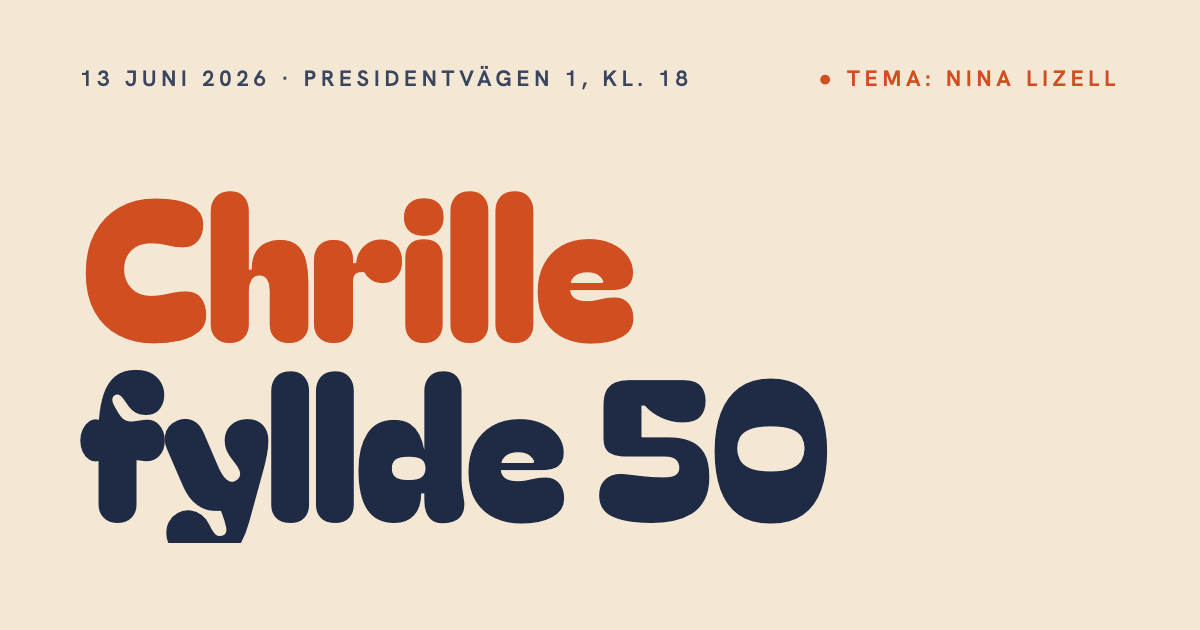
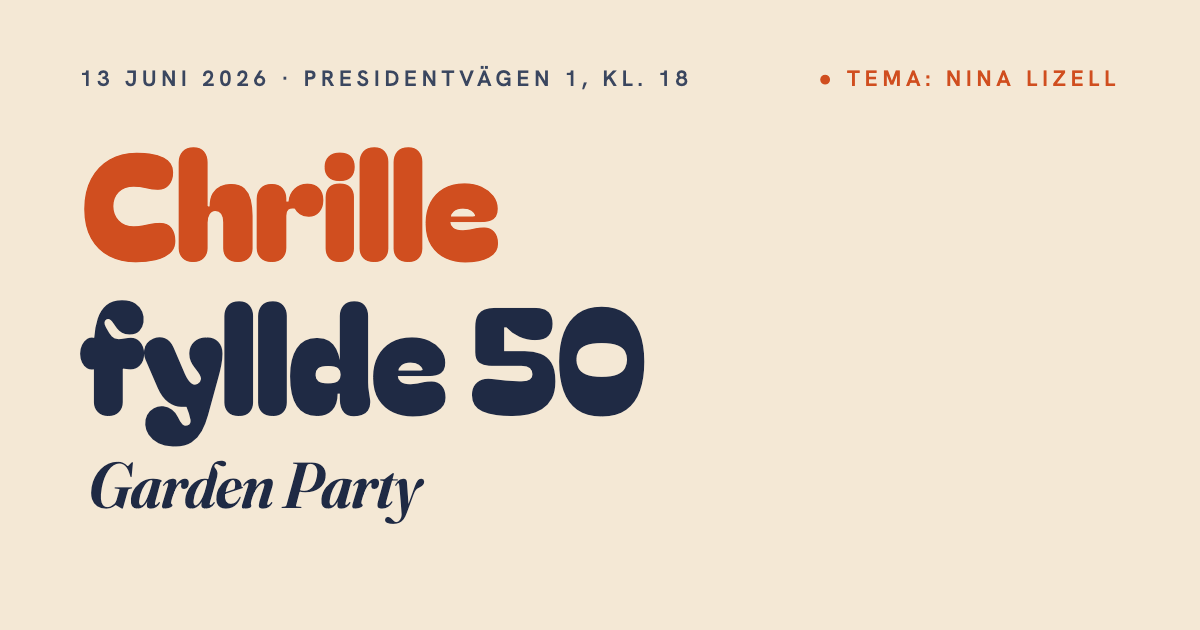
Fix cropped descender on OG image, restore Garden Party

Changed region(s): [[0.0617, 0.2111, 0.7092, 0.8746]]

diff --git a/tools/og.html b/tools/og.html
@@ -30,23 +30,24 @@
   .meta-top .accent { color: #D04E1F; }
   .meta-top .accent::before { content: "● "; }
 
-  .stack { position: absolute; left: 80px; top: 168px; }
+  .stack { position: absolute; left: 80px; top: 124px; }
   .word {
     font-family: "Bagel Fat One", serif;
-    font-size: 196px;
-    line-height: 0.92;
+    font-size: 148px;
+    line-height: 1;
     color: #D04E1F;
     letter-spacing: -0.02em;
+    padding-bottom: 6px;
   }
   .sub {
     font-family: "Fraunces", serif;
     font-style: italic;
     font-weight: 600;
-    font-size: 78px;
+    font-size: 64px;
     font-variation-settings: "opsz" 144;
     color: #1F2A44;
-    line-height: 1;
-    margin: 6px 0 0 8px;
+    line-height: 1.1;
+    margin: 18px 0 0 8px;
     letter-spacing: -0.01em;
   }
   .info {
